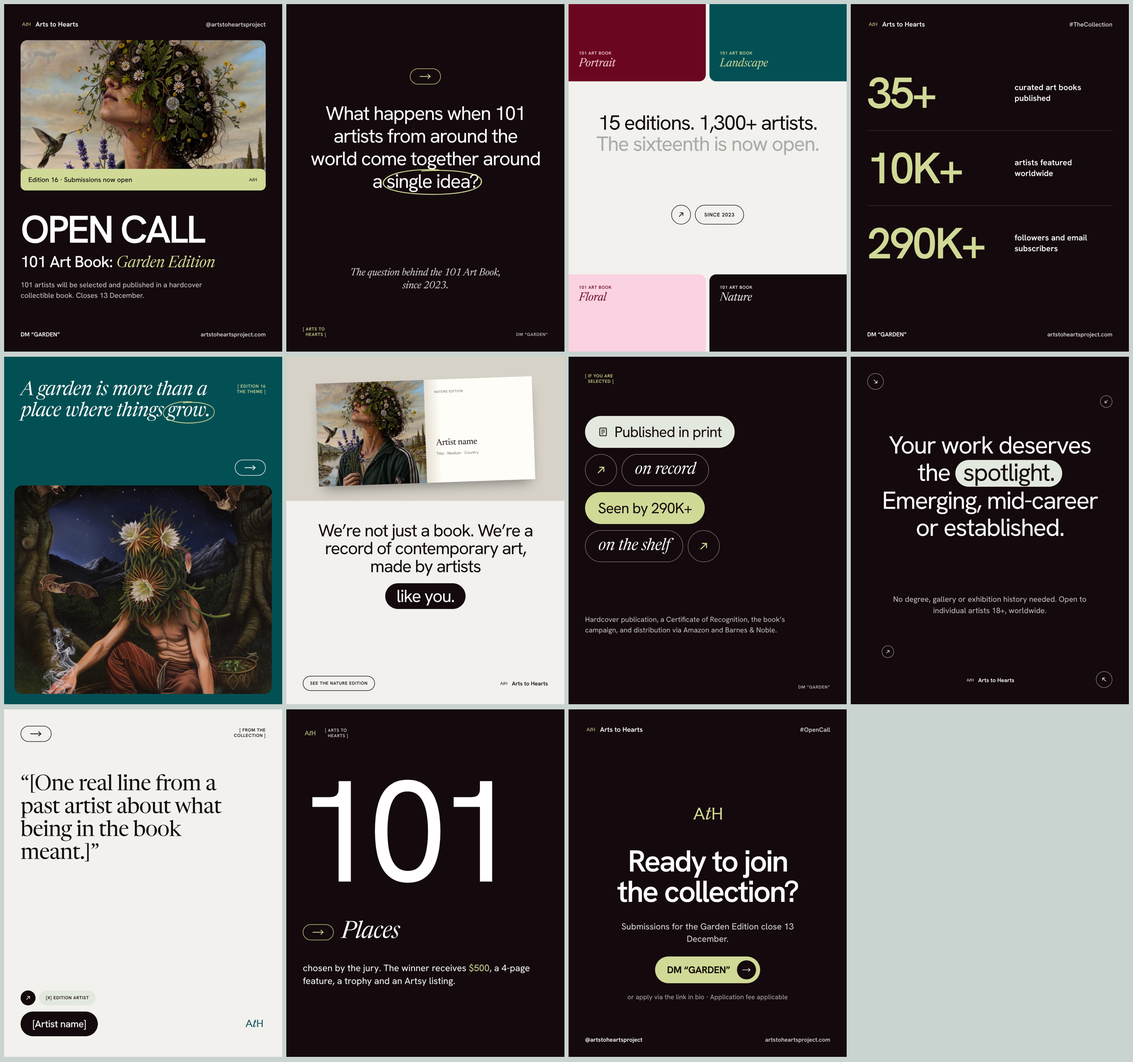
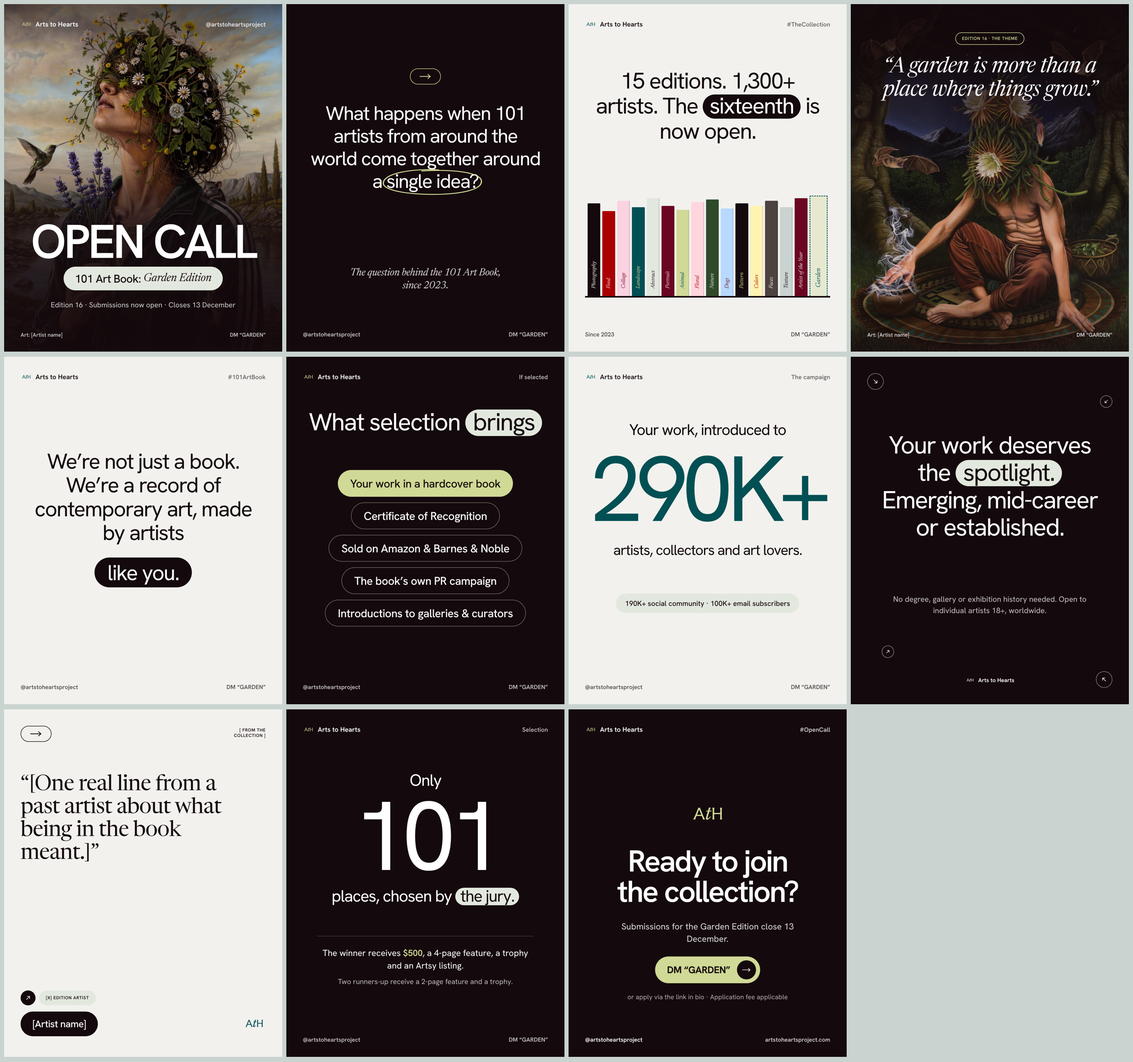
Garden launch: full-bleed cover, shelf, typographic slides in liked style
Claude-Session: https://claude.ai/code/session_01Bc4gkdxg6i3YRuybqzVB3k

diff --git a/design/campaigns/open-calls/launch-ref.html b/design/campaigns/open-calls/launch-ref.html
@@ -4,123 +4,113 @@
 @font-face{font-family:HG;src:url(fonts/ath/HankenGrotesk.woff2) format("woff2");font-weight:100 900}
 @font-face{font-family:NR;src:url(fonts/ath/Newsreader-Italic.woff2) format("woff2");font-style:italic;font-weight:200 800}
 @font-face{font-family:NR;src:url(fonts/ath/Newsreader.woff2) format("woff2");font-weight:200 800}
-/* Reference roles mapped to Garden: black -> ink, orange/yellow accent -> pistachio, mint-grey -> mint, asterisk -> ATH monogram */
-:root{--ink:#14090C;--pet:#025054;--pi:#D0D996;--mint:#E3E8DE;--grey:#F2F1EE;--white:#fff}
+:root{--ink:#14090C;--pet:#025054;--pi:#D0D996;--mint:#E3E8DE;--grey:#F2F1EE}
 body{margin:0;background:#C9D3CF;display:flex;flex-wrap:wrap;gap:40px;padding:40px}
 .s{position:relative;width:1080px;height:1350px;overflow:hidden;font-family:HG,sans-serif;-webkit-font-smoothing:antialiased}
 .s *{margin:0;box-sizing:border-box}
 .a{position:absolute}
+.dk{background:var(--ink);color:#fff}.lt{background:var(--grey);color:var(--ink)}
 .img{background-size:cover;background-repeat:no-repeat;background-position:center}
 .H{font-weight:600;letter-spacing:-.045em;line-height:1}
-.R{font-weight:400;letter-spacing:-.04em;line-height:1.02}
+.R{font-weight:400;letter-spacing:-.04em;line-height:1.1}
 .it{font-family:NR,serif;font-style:italic;font-weight:400;letter-spacing:-.015em}
 .sf{font-family:NR,serif;font-weight:400;letter-spacing:-.02em}
 .sm{font-size:24px;font-weight:600}
 .tag{font-size:17px;font-weight:600;letter-spacing:.06em;text-transform:uppercase;line-height:1.25}
 .hdr{left:64px;right:64px;top:56px;display:flex;justify-content:space-between;align-items:center}
 .ftr{left:64px;right:64px;bottom:52px;display:flex;justify-content:space-between;align-items:center;font-size:23px;font-weight:600}
-.mono{display:inline-block;-webkit-mask:url(art/monogram_burgundy.svg) center/contain no-repeat;mask:url(art/monogram_burgundy.svg) center/contain no-repeat}
 .lg{display:inline-flex;align-items:center;gap:14px;font-size:26px;font-weight:600}
 .ap{display:inline-flex;align-items:center;justify-content:center;width:120px;height:62px;border:2.5px solid currentColor;border-radius:999px}
 .pill{display:inline-flex;align-items:center;border-radius:999px;white-space:nowrap}
+.hl{display:inline-block;background:var(--mint);color:var(--ink);border-radius:999px;padding:0 .3em .07em;line-height:1}
 .ci{display:inline-flex;align-items:center;justify-content:center;border-radius:50%}
+.c{text-align:center}
 </style></head><body>
-<svg width="0" height="0" style="position:absolute"><symbol id="ar" viewBox="0 0 46 20"><path d="M2 10h40M33 2l9 8-9 8" fill="none" stroke="currentColor" stroke-width="3" stroke-linecap="round" stroke-linejoin="round"/></symbol>
-<symbol id="mg" viewBox="-32.00 -165.68 254.06 254.06"><g fill="currentColor"><path d="M34.2 -77.5H44.400000000000006L69.2 -17.5Q71.2 -13.100000000000001 73.35 -9.05Q75.5 -5.0 78.60000000000001 0.0H64.5Q63.900000000000006 -3.2 62.800000000000004 -7.050000000000001Q61.7 -10.9 59.1 -17.5L56.800000000000004 -23.0H21.8L19.5 -17.5Q17.0 -10.9 15.850000000000001 -7.050000000000001Q14.700000000000001 -3.2 14.100000000000001 0.0H0.0Q3.1000000000000005 -4.7 5.15 -8.55Q7.200000000000001 -12.4 9.0 -16.5ZM25.1 -31.0H53.5L39.300000000000004 -65.4Z"/><path d="M91.388 1.18Q87.37600000000002 1.18 85.48800000000001 -0.6489999999999999Q83.60000000000001 -2.4779999999999998 83.60000000000001 -6.489999999999999Q83.60000000000001 -8.85 84.42600000000002 -12.921Q85.25200000000001 -16.991999999999997 87.25800000000001 -23.836L95.99000000000001 -52.745999999999995H85.84200000000001L87.37600000000002 -58.174H97.64200000000001L103.77800000000002 -78.47H114.63400000000001L108.49800000000002 -58.174H121.36000000000001L119.70800000000001 -52.745999999999995H106.846L97.05200000000002 -20.296Q96.108 -17.11 95.57700000000001 -14.690999999999999Q95.04600000000002 -12.271999999999998 94.92800000000001 -10.62Q94.92800000000001 -9.558 95.459 -8.732Q95.99000000000001 -7.906 97.28800000000001 -7.906Q99.412 -7.906 101.772 -9.44Q104.132 -10.974 106.31500000000001 -13.274999999999999Q108.49800000000002 -15.575999999999999 110.20900000000002 -17.817999999999998Q111.92000000000002 -20.06 112.74600000000001 -21.358L116.168 -19.352Q114.162 -15.34 111.153 -11.623Q108.144 -7.906 104.66300000000001 -5.015Q101.18200000000002 -2.1239999999999997 97.70100000000002 -0.47199999999999986Q94.22000000000001 1.18 91.388 1.18Z"/><path d="M139.96 -77.5Q138.66000000000003 -72.10000000000001 138.41000000000003 -66.5Q138.16000000000003 -60.900000000000006 138.16000000000003 -55.300000000000004V-43.1H178.26000000000002V-55.300000000000004Q178.26000000000002 -60.900000000000006 178.01000000000002 -66.5Q177.76000000000002 -72.10000000000001 176.46 -77.5H190.06Q188.76000000000002 -72.10000000000001 188.51000000000002 -66.5Q188.26000000000002 -60.900000000000006 188.26000000000002 -55.300000000000004V-22.200000000000003Q188.26000000000002 -16.6 188.51000000000002 -11.0Q188.76000000000002 -5.4 190.06 0.0H176.46Q177.76000000000002 -5.4 178.01000000000002 -11.0Q178.26000000000002 -16.6 178.26000000000002 -22.200000000000003V-35.1H138.16000000000003V-22.200000000000003Q138.16000000000003 -16.6 138.41000000000003 -11.0Q138.66000000000003 -5.4 139.96 0.0H126.36000000000001Q127.66000000000001 -5.4 127.91000000000003 -11.0Q128.16000000000003 -16.6 128.16000000000003 -22.200000000000003V-55.300000000000004Q128.16000000000003 -60.900000000000006 127.91000000000003 -66.5Q127.66000000000001 -72.10000000000001 126.36000000000001 -77.5Z"/></g></symbol><symbol id="ne" viewBox="0 0 20 20"><path d="M4 16L16 4M7 4h9v9" fill="none" stroke="currentColor" stroke-width="2.2" stroke-linecap="round" stroke-linejoin="round"/></symbol></svg>
+<svg width="0" height="0" style="position:absolute"><symbol id="mg" viewBox="-32.00 -165.68 254.06 254.06"><g fill="currentColor"><path d="M34.2 -77.5H44.400000000000006L69.2 -17.5Q71.2 -13.100000000000001 73.35 -9.05Q75.5 -5.0 78.60000000000001 0.0H64.5Q63.900000000000006 -3.2 62.800000000000004 -7.050000000000001Q61.7 -10.9 59.1 -17.5L56.800000000000004 -23.0H21.8L19.5 -17.5Q17.0 -10.9 15.850000000000001 -7.050000000000001Q14.700000000000001 -3.2 14.100000000000001 0.0H0.0Q3.1000000000000005 -4.7 5.15 -8.55Q7.200000000000001 -12.4 9.0 -16.5ZM25.1 -31.0H53.5L39.300000000000004 -65.4Z"/><path d="M91.388 1.18Q87.37600000000002 1.18 85.48800000000001 -0.6489999999999999Q83.60000000000001 -2.4779999999999998 83.60000000000001 -6.489999999999999Q83.60000000000001 -8.85 84.42600000000002 -12.921Q85.25200000000001 -16.991999999999997 87.25800000000001 -23.836L95.99000000000001 -52.745999999999995H85.84200000000001L87.37600000000002 -58.174H97.64200000000001L103.77800000000002 -78.47H114.63400000000001L108.49800000000002 -58.174H121.36000000000001L119.70800000000001 -52.745999999999995H106.846L97.05200000000002 -20.296Q96.108 -17.11 95.57700000000001 -14.690999999999999Q95.04600000000002 -12.271999999999998 94.92800000000001 -10.62Q94.92800000000001 -9.558 95.459 -8.732Q95.99000000000001 -7.906 97.28800000000001 -7.906Q99.412 -7.906 101.772 -9.44Q104.132 -10.974 106.31500000000001 -13.274999999999999Q108.49800000000002 -15.575999999999999 110.20900000000002 -17.817999999999998Q111.92000000000002 -20.06 112.74600000000001 -21.358L116.168 -19.352Q114.162 -15.34 111.153 -11.623Q108.144 -7.906 104.66300000000001 -5.015Q101.18200000000002 -2.1239999999999997 97.70100000000002 -0.47199999999999986Q94.22000000000001 1.18 91.388 1.18Z"/><path d="M139.96 -77.5Q138.66000000000003 -72.10000000000001 138.41000000000003 -66.5Q138.16000000000003 -60.900000000000006 138.16000000000003 -55.300000000000004V-43.1H178.26000000000002V-55.300000000000004Q178.26000000000002 -60.900000000000006 178.01000000000002 -66.5Q177.76000000000002 -72.10000000000001 176.46 -77.5H190.06Q188.76000000000002 -72.10000000000001 188.51000000000002 -66.5Q188.26000000000002 -60.900000000000006 188.26000000000002 -55.300000000000004V-22.200000000000003Q188.26000000000002 -16.6 188.51000000000002 -11.0Q188.76000000000002 -5.4 190.06 0.0H176.46Q177.76000000000002 -5.4 178.01000000000002 -11.0Q178.26000000000002 -16.6 178.26000000000002 -22.200000000000003V-35.1H138.16000000000003V-22.200000000000003Q138.16000000000003 -16.6 138.41000000000003 -11.0Q138.66000000000003 -5.4 139.96 0.0H126.36000000000001Q127.66000000000001 -5.4 127.91000000000003 -11.0Q128.16000000000003 -16.6 128.16000000000003 -22.200000000000003V-55.300000000000004Q128.16000000000003 -60.900000000000006 127.91000000000003 -66.5Q127.66000000000001 -72.10000000000001 126.36000000000001 -77.5Z"/></g></symbol><symbol id="ar" viewBox="0 0 46 20"><path d="M2 10h40M33 2l9 8-9 8" fill="none" stroke="currentColor" stroke-width="3" stroke-linecap="round" stroke-linejoin="round"/></symbol>
+<symbol id="ne" viewBox="0 0 20 20"><path d="M4 16L16 4M7 4h9v9" fill="none" stroke="currentColor" stroke-width="2.2" stroke-linecap="round" stroke-linejoin="round"/></symbol></svg>
 
-<!-- 1 · COVER  ← Pixel "Your Brand Is a First Impression" (image card + caption strip + bold headline + body + handle footer) -->
-<div class="s" id="r1" style="background:var(--ink);color:#fff">
-  <div class="a hdr"><span class="lg"><svg width="44" height="44" style="color:var(--pi);flex:none"><use href="#mg"/></svg>Arts to Hearts</span><span class="sm" style="opacity:.8">@artstoheartsproject</span></div>
-  <div class="a img" style="left:64px;right:64px;top:140px;height:560px;border-radius:26px;background-image:url(art/flower-portrait.jpg);background-position:center 18%"></div>
-  <div class="a" style="left:64px;right:64px;top:640px;height:84px;border-radius:20px;background:var(--pi);color:var(--ink);display:flex;align-items:center;justify-content:space-between;padding:0 30px">
-    <span style="font-size:26px;font-weight:500">Edition 16 · Submissions now open</span><svg width="40" height="40" style="color:var(--ink);flex:none"><use href="#mg"/></svg></div>
-  <p class="a H" style="left:64px;right:64px;top:800px;font-size:150px;text-transform:uppercase;letter-spacing:-.05em">Open call</p>
-  <p class="a" style="left:64px;right:64px;top:960px;font-size:62px;letter-spacing:-.03em;font-weight:500">101 Art Book: <span class="it" style="color:var(--pi)">Garden Edition</span></p>
-  <p class="a" style="left:64px;right:200px;top:1070px;font-size:28px;line-height:1.45;opacity:.8">101 artists will be selected and published in a hardcover collectible book. Closes 13 December.</p>
-  <div class="a ftr"><span>DM “GARDEN”</span><span style="opacity:.8">artstoheartsproject.com</span></div>
+<!-- 1 · COVER: full-bleed artwork, OPEN CALL loudest -->
+<div class="s dk" id="r1">
+  <div class="a img" style="inset:0;background-image:url(art/flower-portrait.jpg);background-position:center 14%"></div>
+  <div class="a" style="inset:0;background:linear-gradient(180deg,rgba(20,9,12,.55) 0%,rgba(20,9,12,0) 16%,rgba(20,9,12,0) 42%,rgba(20,9,12,.82) 64%,rgba(20,9,12,.96) 100%)"></div>
+  <div class="a hdr"><span class="lg"><svg width="44" height="44" style="color:var(--pi)"><use href="#mg"/></svg>Arts to Hearts</span><span class="sm" style="opacity:.85">@artstoheartsproject</span></div>
+  <p class="a H c" style="left:0;right:0;top:830px;font-size:184px;text-transform:uppercase;letter-spacing:-.05em">Open call</p>
+  <div class="a" style="left:0;right:0;top:1020px;display:flex;justify-content:center"><span class="pill" style="height:92px;padding:0 44px;background:var(--mint);color:var(--ink);font-size:44px;font-weight:500;letter-spacing:-.025em">101 Art Book:&nbsp;<span class="it">Garden Edition</span></span></div>
+  <p class="a c" style="left:0;right:0;top:1150px;font-size:28px;opacity:.8">Edition 16 · Submissions now open · Closes 13 December</p>
+  <div class="a ftr" style="opacity:.75;font-size:21px"><span>Art: [Artist name]</span><span>DM “GARDEN”</span></div>
 </div>
 
-<!-- 2 · THE QUESTION  ← Better Future "…engages, and converts." (dark, centred, arrow pill, circled word, serif note) -->
-<div class="s" id="r2" style="background:var(--ink);color:#fff">
+<!-- 2 · THE QUESTION (kept) -->
+<div class="s dk" id="r2">
   <div class="a" style="left:0;right:0;top:250px;display:flex;justify-content:center"><span class="ap" style="color:var(--pi)"><svg width="46" height="20"><use href="#ar"/></svg></span></div>
-  <p class="a R" style="left:90px;right:90px;top:380px;text-align:center;font-size:76px;line-height:1.16">What happens when 101 artists from around the world come together around a
+  <p class="a R c" style="left:90px;right:90px;top:380px;font-size:76px;line-height:1.16">What happens when 101 artists from around the world come together around a
     <span style="position:relative;display:inline-block">single idea?<svg style="position:absolute;left:-7%;top:-12%;width:114%;height:128%;overflow:visible" viewBox="0 0 300 110" preserveAspectRatio="none"><path d="M168 10C92 4 14 22 10 58c-4 34 92 48 168 44 70-4 116-22 112-52C286 20 210 6 120 14" fill="none" stroke="#D0D996" stroke-width="3.4" stroke-linecap="round"/></svg></span></p>
-  <p class="a it" style="left:160px;right:160px;top:1020px;text-align:center;font-size:40px;line-height:1.25;opacity:.85">The question behind the 101 Art Book,<br>since 2023.</p>
-  <p class="a tag" style="left:64px;bottom:56px;color:var(--pi)">[ Arts to<br>&nbsp;&nbsp;Hearts ]</p>
-  <p class="a tag" style="right:64px;bottom:56px;text-align:right;opacity:.7">DM “GARDEN”</p>
+  <p class="a it c" style="left:160px;right:160px;top:1020px;font-size:40px;line-height:1.25;opacity:.85">The question behind the 101 Art Book,<br>since 2023.</p>
+  <div class="a ftr" style="opacity:.75"><span>@artstoheartsproject</span><span>DM “GARDEN”</span></div>
 </div>
 
-<!-- 3 · THE COLLECTION  ← mint/black "Standing still is the fastest way…" (image corners top & bottom, centred text with grey second line, arrow circle + outlined pill) -->
-<div class="s" id="r3" style="background:var(--grey);color:var(--ink)">
-  <div class="a" style="left:0;right:0;top:0;height:300px;display:grid;grid-template-columns:1fr 1fr;gap:14px">
-    <div style="border-radius:0 0 26px 0;background:#6A0620;position:relative"><p class="a tag" style="left:40px;top:180px;color:#FAD2E1">101 Art Book</p><p class="a it" style="left:40px;top:208px;color:#FAD2E1;font-size:46px">Portrait</p></div>
-    <div style="border-radius:0 0 0 26px;background:#025054;position:relative"><p class="a tag" style="left:40px;top:180px;color:#D0D996">101 Art Book</p><p class="a it" style="left:40px;top:208px;color:#D0D996;font-size:46px">Landscape</p></div></div>
-  <p class="a R" style="left:90px;right:90px;top:420px;text-align:center;font-size:80px">15 editions. 1,300+ artists. <span style="color:#A9ADA7">The sixteenth is now open.</span></p>
-  <div class="a" style="left:0;right:0;top:780px;display:flex;justify-content:center;gap:16px">
-    <span class="ci" style="width:76px;height:76px;border:2px solid var(--ink)"><svg width="24" height="24"><use href="#ne"/></svg></span>
-    <span class="pill tag" style="height:76px;padding:0 34px;border:2px solid var(--ink);font-size:20px">Since 2023</span></div>
-  <div class="a" style="left:0;right:0;bottom:0;height:300px;display:grid;grid-template-columns:1fr 1fr;gap:14px">
-    <div style="border-radius:0 26px 0 0;background:#FAD2E1;position:relative"><p class="a tag" style="left:40px;top:40px;color:#6A0620">101 Art Book</p><p class="a it" style="left:40px;top:68px;color:#6A0620;font-size:46px">Floral</p></div>
-    <div style="border-radius:26px 0 0 0;background:#14090C;position:relative"><p class="a tag" style="left:40px;top:40px;color:#F2F1EE">101 Art Book</p><p class="a it" style="left:40px;top:68px;color:#F2F1EE;font-size:46px">Nature</p></div></div>
+<!-- 3 · THE COLLECTION: a shelf of 15 spines, one gap -->
+<div class="s lt" id="r3">
+  <div class="a hdr"><span class="lg"><svg width="44" height="44" style="color:var(--pet)"><use href="#mg"/></svg>Arts to Hearts</span><span class="sm" style="opacity:.6">#TheCollection</span></div>
+  <p class="a R c" style="left:80px;right:80px;top:250px;font-size:88px">15 editions. 1,300+ artists. The <span class="hl" style="background:var(--ink);color:#fff">sixteenth</span> is now open.</p>
+  <div class="a" id="shelf" style="left:64px;right:64px;top:720px;height:420px;display:flex;align-items:flex-end;gap:8px;border-bottom:6px solid var(--ink);padding:0 10px"></div>
+  <div class="a ftr" style="opacity:.7"><span>Since 2023</span><span>DM “GARDEN”</span></div>
 </div>
 
-<!-- 4 · PROOF IN NUMBERS  ← Pixel "93% / 2.7x / 5s" stat rows -->
-<div class="s" id="r4" style="background:var(--ink);color:#fff">
-  <div class="a hdr"><span class="lg"><svg width="44" height="44" style="color:var(--pi);flex:none"><use href="#mg"/></svg>Arts to Hearts</span><span class="sm" style="opacity:.8">#TheCollection</span></div>
-  <div class="a" style="left:64px;right:64px;top:200px">
-    <div style="display:grid;grid-template-columns:1fr 380px;align-items:center;padding:60px 0;border-bottom:2px solid rgba(255,255,255,.15)"><p class="H" style="font-size:170px;color:var(--pi)">35+</p><p style="font-size:32px;font-weight:600;line-height:1.3">curated art books published</p></div>
-    <div style="display:grid;grid-template-columns:1fr 380px;align-items:center;padding:60px 0;border-bottom:2px solid rgba(255,255,255,.15)"><p class="H" style="font-size:170px;color:var(--pi)">10K+</p><p style="font-size:32px;font-weight:600;line-height:1.3">artists featured worldwide</p></div>
-    <div style="display:grid;grid-template-columns:1fr 380px;align-items:center;padding:60px 0"><p class="H" style="font-size:170px;color:var(--pi)">290K+</p><p style="font-size:32px;font-weight:600;line-height:1.3">followers and email subscribers</p></div>
+<!-- 4 · THE THEME: full-bleed, quote held in the dark top -->
+<div class="s dk" id="r4">
+  <div class="a img" style="inset:0;background-image:url(art/night-bloom.jpg);background-position:center 44%"></div>
+  <div class="a" style="inset:0;background:linear-gradient(180deg,rgba(20,9,12,.92) 0%,rgba(20,9,12,.6) 30%,rgba(20,9,12,0) 48%,rgba(20,9,12,0) 84%,rgba(20,9,12,.7) 100%)"></div>
+  <div class="a" style="left:0;right:0;top:110px;display:flex;justify-content:center"><span class="pill tag" style="height:48px;padding:0 24px;border:2px solid var(--pi);color:var(--pi)">Edition 16 · The theme</span></div>
+  <p class="a it c" style="left:90px;right:90px;top:200px;font-size:84px;line-height:1.08">“A garden is more than a place where things grow.”</p>
+  <div class="a ftr" style="opacity:.8;font-size:21px"><span>Art: [Artist name]</span><span>DM “GARDEN”</span></div>
+</div>
+
+<!-- 5 · THE RECORD (typographic, no book image) -->
+<div class="s lt" id="r5">
+  <div class="a hdr"><span class="lg"><svg width="44" height="44" style="color:var(--pet)"><use href="#mg"/></svg>Arts to Hearts</span><span class="sm" style="opacity:.6">#101ArtBook</span></div>
+  <p class="a R c" style="left:90px;right:90px;top:360px;font-size:84px">We’re not just a book. We’re a record of contemporary art, made by artists</p>
+  <div class="a" style="left:0;right:0;top:780px;display:flex;justify-content:center"><span class="pill" style="height:116px;padding:0 50px;background:var(--ink);color:#fff;font-size:84px;font-weight:400;letter-spacing:-.04em">like you.</span></div>
+  <div class="a ftr" style="opacity:.7"><span>@artstoheartsproject</span><span>DM “GARDEN”</span></div>
+</div>
+
+<!-- 6 · WHAT SELECTION BRINGS: centred title + straight pills -->
+<div class="s dk" id="r6">
+  <div class="a hdr"><span class="lg"><svg width="44" height="44" style="color:var(--pi)"><use href="#mg"/></svg>Arts to Hearts</span><span class="sm" style="opacity:.7">If selected</span></div>
+  <p class="a R c" style="left:80px;right:80px;top:200px;font-size:96px">What selection <span class="hl">brings</span></p>
+  <div class="a" style="left:0;right:0;top:440px;display:flex;flex-direction:column;align-items:center;gap:22px">
+    <span class="pill" style="height:104px;padding:0 48px;background:var(--pi);color:var(--ink);font-size:44px;font-weight:500;letter-spacing:-.02em">Your work in a hardcover book</span>
+    <span class="pill" style="height:104px;padding:0 48px;border:2px solid rgba(255,255,255,.4);font-size:44px;font-weight:500;letter-spacing:-.02em">Certificate of Recognition</span>
+    <span class="pill" style="height:104px;padding:0 48px;border:2px solid rgba(255,255,255,.4);font-size:44px;font-weight:500;letter-spacing:-.02em">Sold on Amazon &amp; Barnes &amp; Noble</span>
+    <span class="pill" style="height:104px;padding:0 48px;border:2px solid rgba(255,255,255,.4);font-size:44px;font-weight:500;letter-spacing:-.02em">The book’s own PR campaign</span>
+    <span class="pill" style="height:104px;padding:0 48px;border:2px solid rgba(255,255,255,.4);font-size:44px;font-weight:500;letter-spacing:-.02em">Introductions to galleries &amp; curators</span>
   </div>
-  <div class="a ftr"><span>DM “GARDEN”</span><span style="opacity:.8">artstoheartsproject.com</span></div>
+  <div class="a ftr" style="opacity:.75"><span>@artstoheartsproject</span><span>DM “GARDEN”</span></div>
 </div>
 
-<!-- 5 · THE THEME  ← Better Future "Great design isn't just visual…" (dark top: italic serif + circled word + arrow pill; image bottom) -->
-<div class="s" id="r5" style="background:var(--pet);color:#fff">
-  <p class="a it" style="left:64px;right:250px;top:90px;font-size:76px;line-height:1.08">A garden is more than a place where things
-    <span style="position:relative;display:inline-block">grow.<svg style="position:absolute;left:-14%;top:-6%;width:128%;height:118%;overflow:visible" viewBox="0 0 300 110" preserveAspectRatio="none"><path d="M168 10C92 4 14 22 10 58c-4 34 92 48 168 44 70-4 116-22 112-52C286 20 210 6 120 14" fill="none" stroke="#D0D996" stroke-width="3.4" stroke-linecap="round"/></svg></span></p>
-  <p class="a tag" style="right:64px;top:104px;text-align:right;color:var(--pi)">[ Edition 16<br>&nbsp;&nbsp;The theme ]</p>
-  <div class="a" style="right:64px;top:400px"><span class="ap"><svg width="46" height="20"><use href="#ar"/></svg></span></div>
-  <div class="a img" style="left:40px;right:40px;top:500px;bottom:40px;border-radius:30px;background-image:url(art/night-bloom.jpg);background-position:center 38%"></div>
+<!-- 7 · REACH: one centred stat ("Your first 1k") -->
+<div class="s lt" id="r7">
+  <div class="a hdr"><span class="lg"><svg width="44" height="44" style="color:var(--pet)"><use href="#mg"/></svg>Arts to Hearts</span><span class="sm" style="opacity:.6">The campaign</span></div>
+  <p class="a R c" style="left:0;right:0;top:250px;font-size:60px">Your work, introduced to</p>
+  <p class="a c" style="left:0;right:0;top:360px;font-size:360px;font-weight:400;letter-spacing:-.07em;line-height:.85;color:var(--pet)">290K+</p>
+  <p class="a R c" style="left:120px;right:120px;top:720px;font-size:56px">artists, collectors and art lovers.</p>
+  <div class="a" style="left:0;right:0;top:920px;display:flex;justify-content:center"><span class="pill" style="height:76px;padding:0 36px;background:var(--mint);font-size:28px;font-weight:500">190K+ social community · 100K+ email subscribers</span></div>
+  <div class="a ftr" style="opacity:.7"><span>@artstoheartsproject</span><span>DM “GARDEN”</span></div>
 </div>
 
-<!-- 6 · THE PROOF  ← mint/black "We're not just a company… like yours" (image top, centred statement, highlighted pill, get-to-know-us pill + logo) -->
-<div class="s" id="r6" style="background:var(--grey);color:var(--ink)">
-  <div class="a" style="left:0;right:0;top:0;height:560px;background:#D6D2C8">
-    <div class="a" style="left:120px;right:120px;top:90px;height:400px;box-shadow:0 30px 50px -20px rgba(0,0,0,.4);transform:rotate(-2deg)">
-      <div class="a img" style="left:0;top:0;width:50%;height:100%;background-image:url(art/flower-portrait.jpg);background-position:center 25%"></div>
-      <div class="a" style="right:0;top:0;width:50%;height:100%;background:linear-gradient(90deg,#E6DFD2,#FFFDF8 14%)"><p class="a tag" style="left:40px;top:40px;opacity:.5;font-size:13px">Nature Edition</p><p class="a sf" style="left:40px;top:230px;font-size:34px">Artist name</p><p class="a" style="left:40px;top:278px;font-size:15px;opacity:.6">Title · Medium · Country</p></div></div></div>
-  <p class="a R" style="left:90px;right:90px;top:640px;text-align:center;font-size:68px">We’re not just a book. We’re a record of contemporary art, made by artists</p>
-  <div class="a" style="left:0;right:0;top:880px;display:flex;justify-content:center"><span class="pill R" style="height:100px;padding:0 44px;background:var(--ink);color:#fff;font-size:68px">like you.</span></div>
-  <div class="a ftr"><span class="pill tag" style="height:58px;padding:0 26px;border:2px solid var(--ink);font-size:17px">See the Nature Edition</span><span class="lg" style="font-size:22px"><svg width="36" height="36" style="color:var(--ink);flex:none"><use href="#mg"/></svg>Arts to Hearts</span></div>
-</div>
-
-<!-- 7 · WHAT SELECTION BRINGS  ← Better Future pill stack ("More visibility / more results / More engagement / Get started") -->
-<div class="s" id="r7" style="background:var(--ink);color:#fff">
-  <p class="a tag" style="left:64px;top:64px;color:var(--pi)">[ If you are<br>&nbsp;&nbsp;selected ]</p>
-  <div class="a" style="left:64px;right:64px;top:230px;display:flex;flex-direction:column;align-items:flex-start;gap:24px">
-    <div class="pill" style="height:124px;padding:0 50px;background:var(--mint);color:var(--ink);font-size:58px;letter-spacing:-.03em;gap:24px"><svg width="40" height="40" viewBox="0 0 40 40"><rect x="7" y="5" width="26" height="30" rx="3" fill="none" stroke="currentColor" stroke-width="3"/><path d="M13 13h14M13 20h14M13 27h8" stroke="currentColor" stroke-width="3"/></svg>Published in print</div>
-    <div style="display:flex;gap:18px;align-items:center"><span class="ci" style="width:124px;height:124px;border:2px solid rgba(255,255,255,.45);color:var(--pi)"><svg width="36" height="36"><use href="#ne"/></svg></span><span class="pill it" style="height:124px;padding:0 50px;border:2px solid rgba(255,255,255,.45);font-size:64px">on record</span></div>
-    <div class="pill" style="height:124px;padding:0 50px;background:var(--pi);color:var(--ink);font-size:58px;letter-spacing:-.03em">Seen by 290K+</div>
-    <div style="display:flex;gap:18px;align-items:center"><span class="pill it" style="height:124px;padding:0 50px;border:2px solid rgba(255,255,255,.45);font-size:64px">on the shelf</span><span class="ci" style="width:124px;height:124px;border:2px solid rgba(255,255,255,.45);color:var(--pi)"><svg width="36" height="36"><use href="#ne"/></svg></span></div>
-  </div>
-  <p class="a" style="left:64px;right:180px;top:1000px;font-size:28px;line-height:1.45;opacity:.75">Hardcover publication, a Certificate of Recognition, the book’s campaign, and distribution via Amazon and Barnes &amp; Noble.</p>
-  <p class="a tag" style="right:64px;bottom:56px;opacity:.7">DM “GARDEN”</p>
-</div>
-
-<!-- 8 · WHO IT'S FOR  ← mint/black "Your business deserves the spotlight." (centred, highlighted word pill, corner arrow circles) -->
-<div class="s" id="r8" style="background:var(--ink);color:#fff">
+<!-- 8 · SPOTLIGHT (kept) -->
+<div class="s dk" id="r8">
   <span class="a ci" style="left:64px;top:64px;width:64px;height:64px;border:2px solid rgba(255,255,255,.5)"><svg width="20" height="20" style="transform:rotate(90deg)"><use href="#ne"/></svg></span>
   <span class="a ci" style="right:64px;top:150px;width:48px;height:48px;border:2px solid rgba(255,255,255,.5)"><svg width="16" height="16" style="transform:rotate(180deg)"><use href="#ne"/></svg></span>
-  <p class="a R" style="left:80px;right:80px;top:290px;text-align:center;font-size:96px;line-height:1.1">Your work deserves the <span class="pill" style="background:var(--mint);color:var(--ink);padding:0 30px 8px;font-size:96px;line-height:1">spotlight.</span> Emerging, mid-career or established.</p>
-  <p class="a" style="left:160px;right:160px;top:920px;text-align:center;font-size:30px;line-height:1.45;opacity:.75">No degree, gallery or exhibition history needed. Open to individual artists 18+, worldwide.</p>
+  <p class="a R c" style="left:80px;right:80px;top:290px;font-size:96px">Your work deserves the <span class="hl">spotlight.</span> Emerging, mid-career or established.</p>
+  <p class="a c" style="left:160px;right:160px;top:920px;font-size:30px;line-height:1.45;opacity:.75">No degree, gallery or exhibition history needed. Open to individual artists 18+, worldwide.</p>
   <span class="a ci" style="left:120px;bottom:180px;width:48px;height:48px;border:2px solid rgba(255,255,255,.5)"><svg width="16" height="16"><use href="#ne"/></svg></span>
   <span class="a ci" style="right:64px;bottom:64px;width:64px;height:64px;border:2px solid rgba(255,255,255,.5)"><svg width="20" height="20" style="transform:rotate(-90deg)"><use href="#ne"/></svg></span>
-  <div class="a" style="left:0;right:0;bottom:76px;display:flex;justify-content:center"><span class="lg" style="font-size:22px"><svg width="36" height="36" style="color:#fff;flex:none"><use href="#mg"/></svg>Arts to Hearts</span></div>
+  <div class="a" style="left:0;right:0;bottom:76px;display:flex;justify-content:center"><span class="lg" style="font-size:22px"><svg width="36" height="36" style="color:#fff"><use href="#mg"/></svg>Arts to Hearts</span></div>
 </div>
 
-<!-- 9 · ARTIST VOICE  ← Better Future quote card (arrow pill, serif quote, arrow circle + role pill, name pill) -->
-<div class="s" id="r9" style="background:var(--grey);color:var(--ink)">
+<!-- 9 · ARTIST VOICE (kept) -->
+<div class="s lt" id="r9">
   <div class="a" style="left:64px;top:64px"><span class="ap"><svg width="46" height="20"><use href="#ar"/></svg></span></div>
   <p class="a tag" style="right:64px;top:70px;text-align:right">[ From the<br>&nbsp;&nbsp;collection ]</p>
   <p class="a sf" style="left:64px;right:110px;top:250px;font-size:84px;line-height:1.06">“[One real line from a past artist about what being in the book meant.]”</p>
@@ -128,25 +118,37 @@ body{margin:0;background:#C9D3CF;display:flex;flex-wrap:wrap;gap:40px;padding:40
     <span class="ci" style="width:58px;height:58px;background:var(--ink);color:#fff"><svg width="20" height="20"><use href="#ne"/></svg></span>
     <span class="pill tag" style="height:58px;padding:0 26px;background:var(--mint)">[X] Edition artist</span></div>
   <div class="a" style="left:64px;bottom:80px"><span class="pill" style="height:96px;padding:0 46px;background:var(--ink);color:#fff;font-size:38px;font-weight:500;letter-spacing:-.02em">[Artist name]</span></div>
-  <div class="a" style="right:64px;bottom:80px"><svg width="90" height="90" style="color:var(--pet);flex:none"><use href="#mg"/></svg></div>
+  <div class="a" style="right:64px;bottom:80px"><svg width="90" height="90" style="color:var(--pet)"><use href="#mg"/></svg></div>
 </div>
 
-<!-- 10 · THE AWARD  ← Better Future "2.4K Companies" (huge figure, accent unit, arrow pill + italic word, line with accent figure) -->
-<div class="s" id="r10" style="background:var(--ink);color:#fff">
-  <div class="a" style="left:64px;top:64px;display:flex;align-items:center;gap:30px"><svg width="56" height="56" style="color:var(--pi);flex:none"><use href="#mg"/></svg><p class="tag" style="opacity:.8">[ Arts to<br>&nbsp;&nbsp;Hearts ]</p></div>
-  <p class="a R" style="left:40px;top:250px;font-size:560px;letter-spacing:-.07em;line-height:.8">101</p>
-  <div class="a" style="left:64px;top:820px;display:flex;align-items:center;gap:30px"><span class="ap" style="color:var(--pi)"><svg width="46" height="20"><use href="#ar"/></svg></span><span class="it" style="font-size:92px">Places</span></div>
-  <p class="a" style="left:64px;right:120px;top:980px;font-size:36px;line-height:1.38">chosen by the jury. The winner receives <span style="color:var(--pi)">$500</span>, a 4-page feature, a trophy and an Artsy listing.</p>
+<!-- 10 · SELECTION + AWARD: centred -->
+<div class="s dk" id="r10">
+  <div class="a hdr"><span class="lg"><svg width="44" height="44" style="color:var(--pi)"><use href="#mg"/></svg>Arts to Hearts</span><span class="sm" style="opacity:.7">Selection</span></div>
+  <p class="a R c" style="left:0;right:0;top:240px;font-size:64px">Only</p>
+  <p class="a c" style="left:0;right:0;top:330px;font-size:380px;font-weight:400;letter-spacing:-.07em;line-height:.85">101</p>
+  <p class="a R c" style="left:0;right:0;top:690px;font-size:64px">places, chosen by <span class="hl">the jury.</span></p>
+  <div class="a" style="left:120px;right:120px;top:880px;border-top:2px solid rgba(255,255,255,.2);padding-top:40px">
+    <p class="c" style="font-size:34px;line-height:1.45">The winner receives <b style="color:var(--pi);font-weight:600">$500</b>, a 4-page feature, a trophy and an Artsy listing.</p>
+    <p class="c" style="font-size:28px;line-height:1.45;opacity:.7;margin-top:16px">Two runners-up receive a 2-page feature and a trophy.</p></div>
+  <div class="a ftr" style="opacity:.75"><span>@artstoheartsproject</span><span>DM “GARDEN”</span></div>
 </div>
 
-<!-- 11 · CTA  ← Pixel "Ready To Stand Out?" (centred mark, bold question, line, button, handle footer) -->
-<div class="s" id="r11" style="background:var(--ink);color:#fff">
-  <div class="a hdr"><span class="lg"><svg width="44" height="44" style="color:var(--pi);flex:none"><use href="#mg"/></svg>Arts to Hearts</span><span class="sm" style="opacity:.8">#OpenCall</span></div>
-  <div class="a" style="left:0;right:0;top:330px;display:flex;justify-content:center"><svg width="150" height="150" style="color:var(--pi);flex:none"><use href="#mg"/></svg></div>
-  <p class="a H" style="left:80px;right:80px;top:530px;text-align:center;font-size:118px">Ready to join<br>the collection?</p>
-  <p class="a" style="left:160px;right:160px;top:820px;text-align:center;font-size:34px;line-height:1.4;opacity:.85">Submissions for the Garden Edition close 13 December.</p>
+<!-- 11 · CTA (kept) -->
+<div class="s dk" id="r11">
+  <div class="a hdr"><span class="lg"><svg width="44" height="44" style="color:var(--pi)"><use href="#mg"/></svg>Arts to Hearts</span><span class="sm" style="opacity:.8">#OpenCall</span></div>
+  <div class="a" style="left:0;right:0;top:330px;display:flex;justify-content:center"><svg width="150" height="150" style="color:var(--pi)"><use href="#mg"/></svg></div>
+  <p class="a H c" style="left:80px;right:80px;top:530px;font-size:118px">Ready to join<br>the collection?</p>
+  <p class="a c" style="left:160px;right:160px;top:820px;font-size:34px;line-height:1.4;opacity:.85">Submissions for the Garden Edition close 13 December.</p>
   <div class="a" style="left:0;right:0;top:960px;display:flex;justify-content:center"><span class="pill" style="height:104px;padding:0 16px 0 46px;background:var(--pi);color:var(--ink);font-size:38px;font-weight:700;gap:26px;letter-spacing:-.02em">DM “GARDEN”<span class="ci" style="width:74px;height:74px;background:var(--ink);color:#fff"><svg width="34" height="16"><use href="#ar"/></svg></span></span></div>
-  <p class="a" style="left:0;right:0;top:1100px;text-align:center;font-size:26px;opacity:.65">or apply via the link in bio · Application fee applicable</p>
+  <p class="a c" style="left:0;right:0;top:1100px;font-size:26px;opacity:.65">or apply via the link in bio · Application fee applicable</p>
   <div class="a ftr"><span>@artstoheartsproject</span><span style="opacity:.8">artstoheartsproject.com</span></div>
 </div>
+
+<script>
+// shelf: 15 published spines + the open Garden slot
+const EDS=[['Photography','#14090C','#F2F1EE',360],['Food','#AA0003','#FFD6DE',330],['Collage','#FAD2E1','#6A0620',370],['Landscape','#025054','#D0D996',345],['Abstract','#E3E8DE','#14090C',380],['Portrait','#6A0620','#FAD2E1',350],['Animal','#D0D996','#025054',335],['Floral','#FFD6DE','#AA0003',365],['Nature','#2E4A2A','#E3E8DE',375],['Dogs','#B7D9FF','#6A0620',340],['Pattern','#14090C','#D0D996',360],['Colors','#FFF3B2','#AA0003',350],['Faces','#4C4240','#F2F1EE',370],['Texture','#C9D3CF','#14090C',345],['Artist of the Year','#6A0620','#F2F1EE',380]];
+const sh=document.getElementById('shelf');
+sh.innerHTML = EDS.map(([n,b,f,h])=>`<div style="flex:1;height:${h}px;background:${b};color:${f};border-radius:3px 3px 0 0;position:relative;box-shadow:inset -3px 0 0 rgba(0,0,0,.12)"><span style="position:absolute;left:50%;bottom:18px;transform:translateX(-50%) rotate(-90deg);transform-origin:center;white-space:nowrap;font-family:NR,serif;font-style:italic;font-size:22px;width:0;display:flex;justify-content:flex-start"><span style="transform:translateX(0)">${n}</span></span></div>`).join('')
+ + `<div style="flex:1.3;height:390px;border:3px dashed #025054;border-bottom:none;border-radius:3px 3px 0 0;position:relative;background:rgba(208,217,150,.35)"><span style="position:absolute;left:50%;bottom:20px;transform:translateX(-50%) rotate(-90deg);white-space:nowrap;font-family:NR,serif;font-style:italic;font-size:26px;width:0;color:#025054">Garden</span></div>`;
+</script>
 </body></html>
